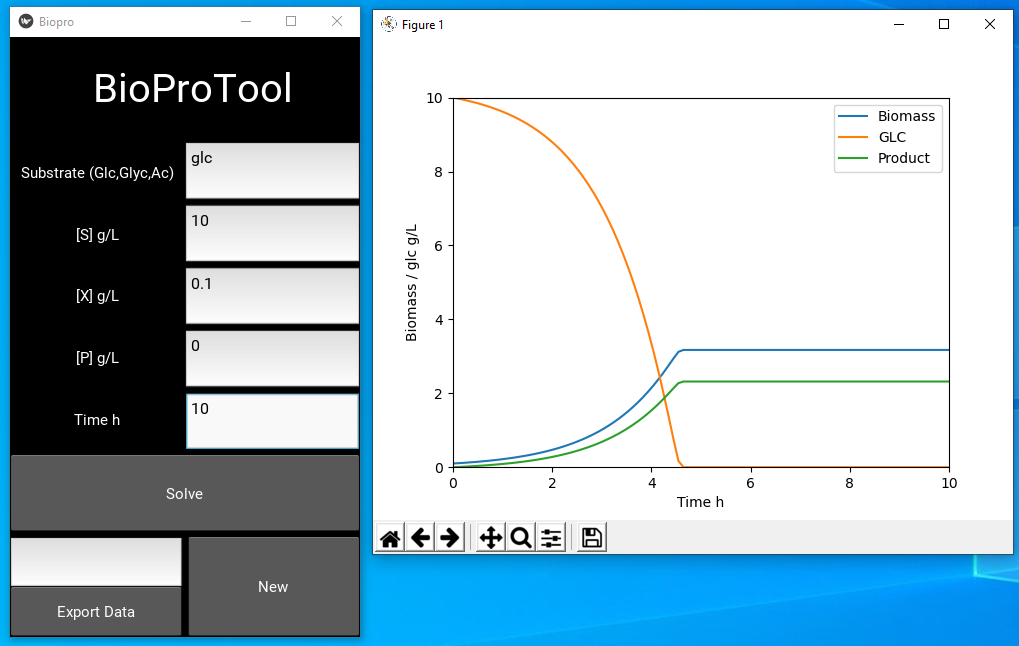
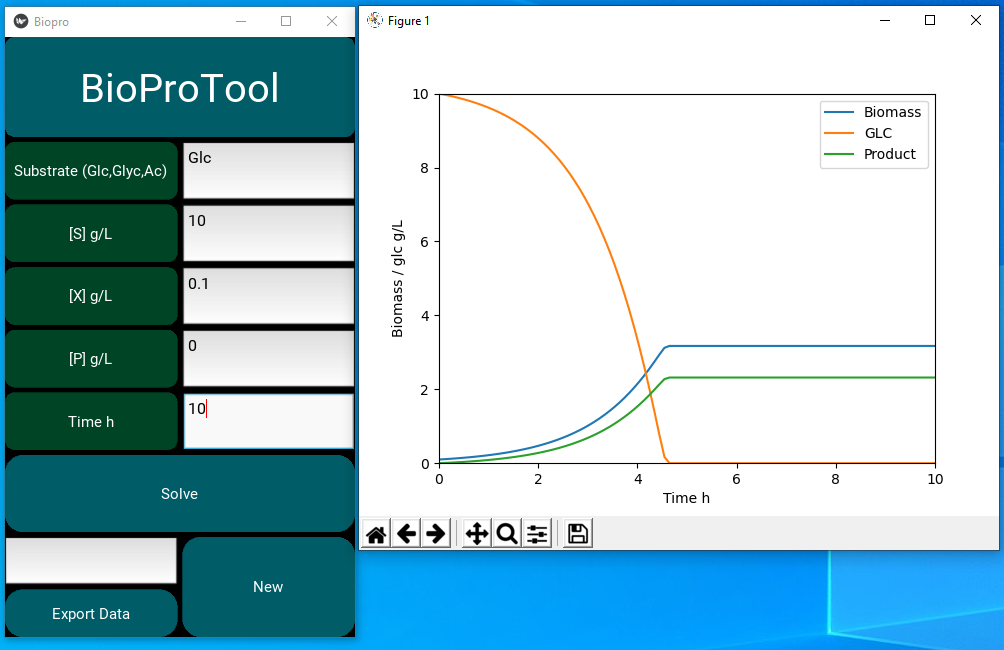
Add files via upload

diff --git a/main.py b/main.py
@@ -3,6 +3,7 @@ kivy.require('1.11.1')
  
 from kivy.app import App
 from kivy.uix.boxlayout import BoxLayout
+from kivy.uix.floatlayout import FloatLayout
 import matplotlib.pyplot as plt
 import numpy as np
 from scipy.integrate import odeint
